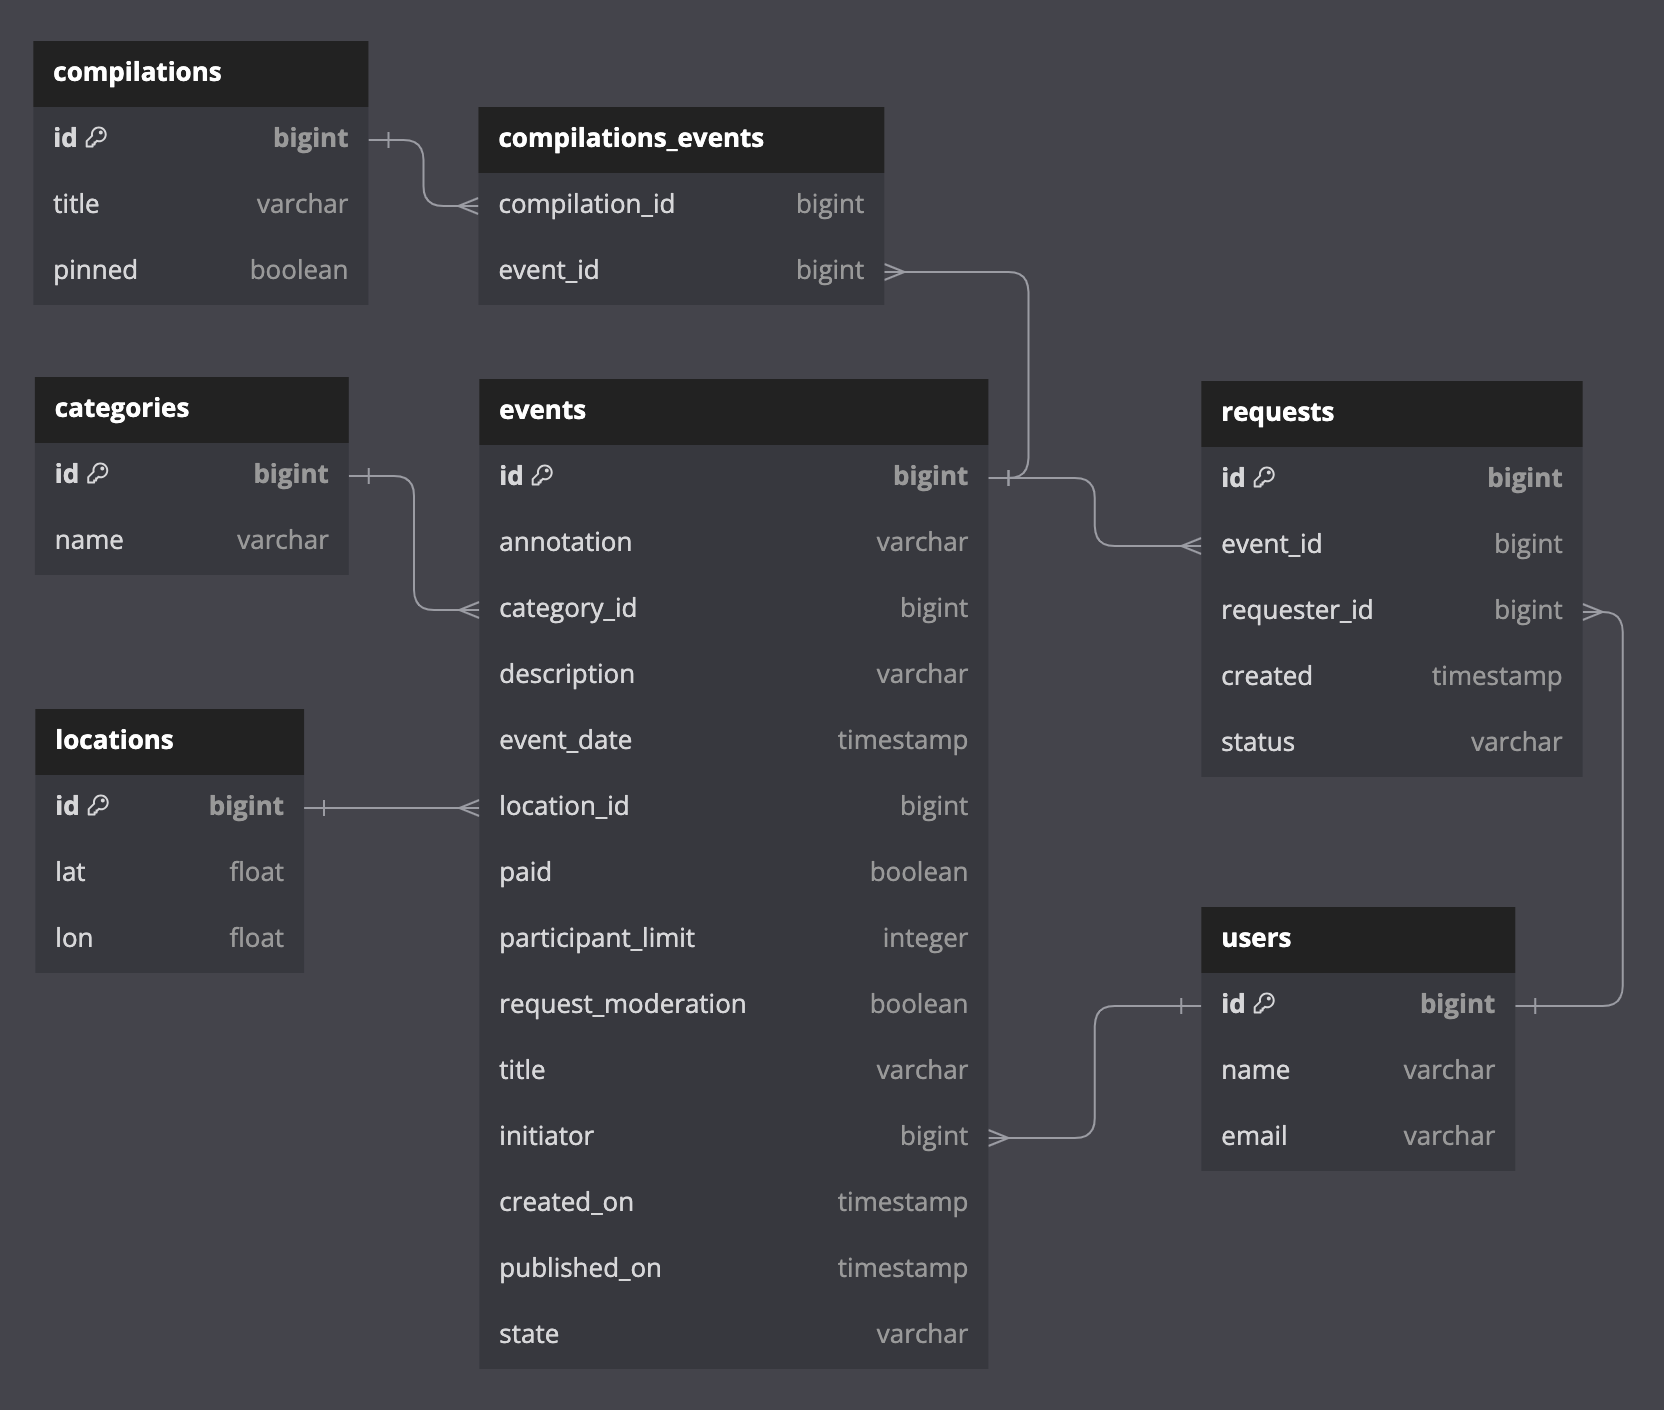
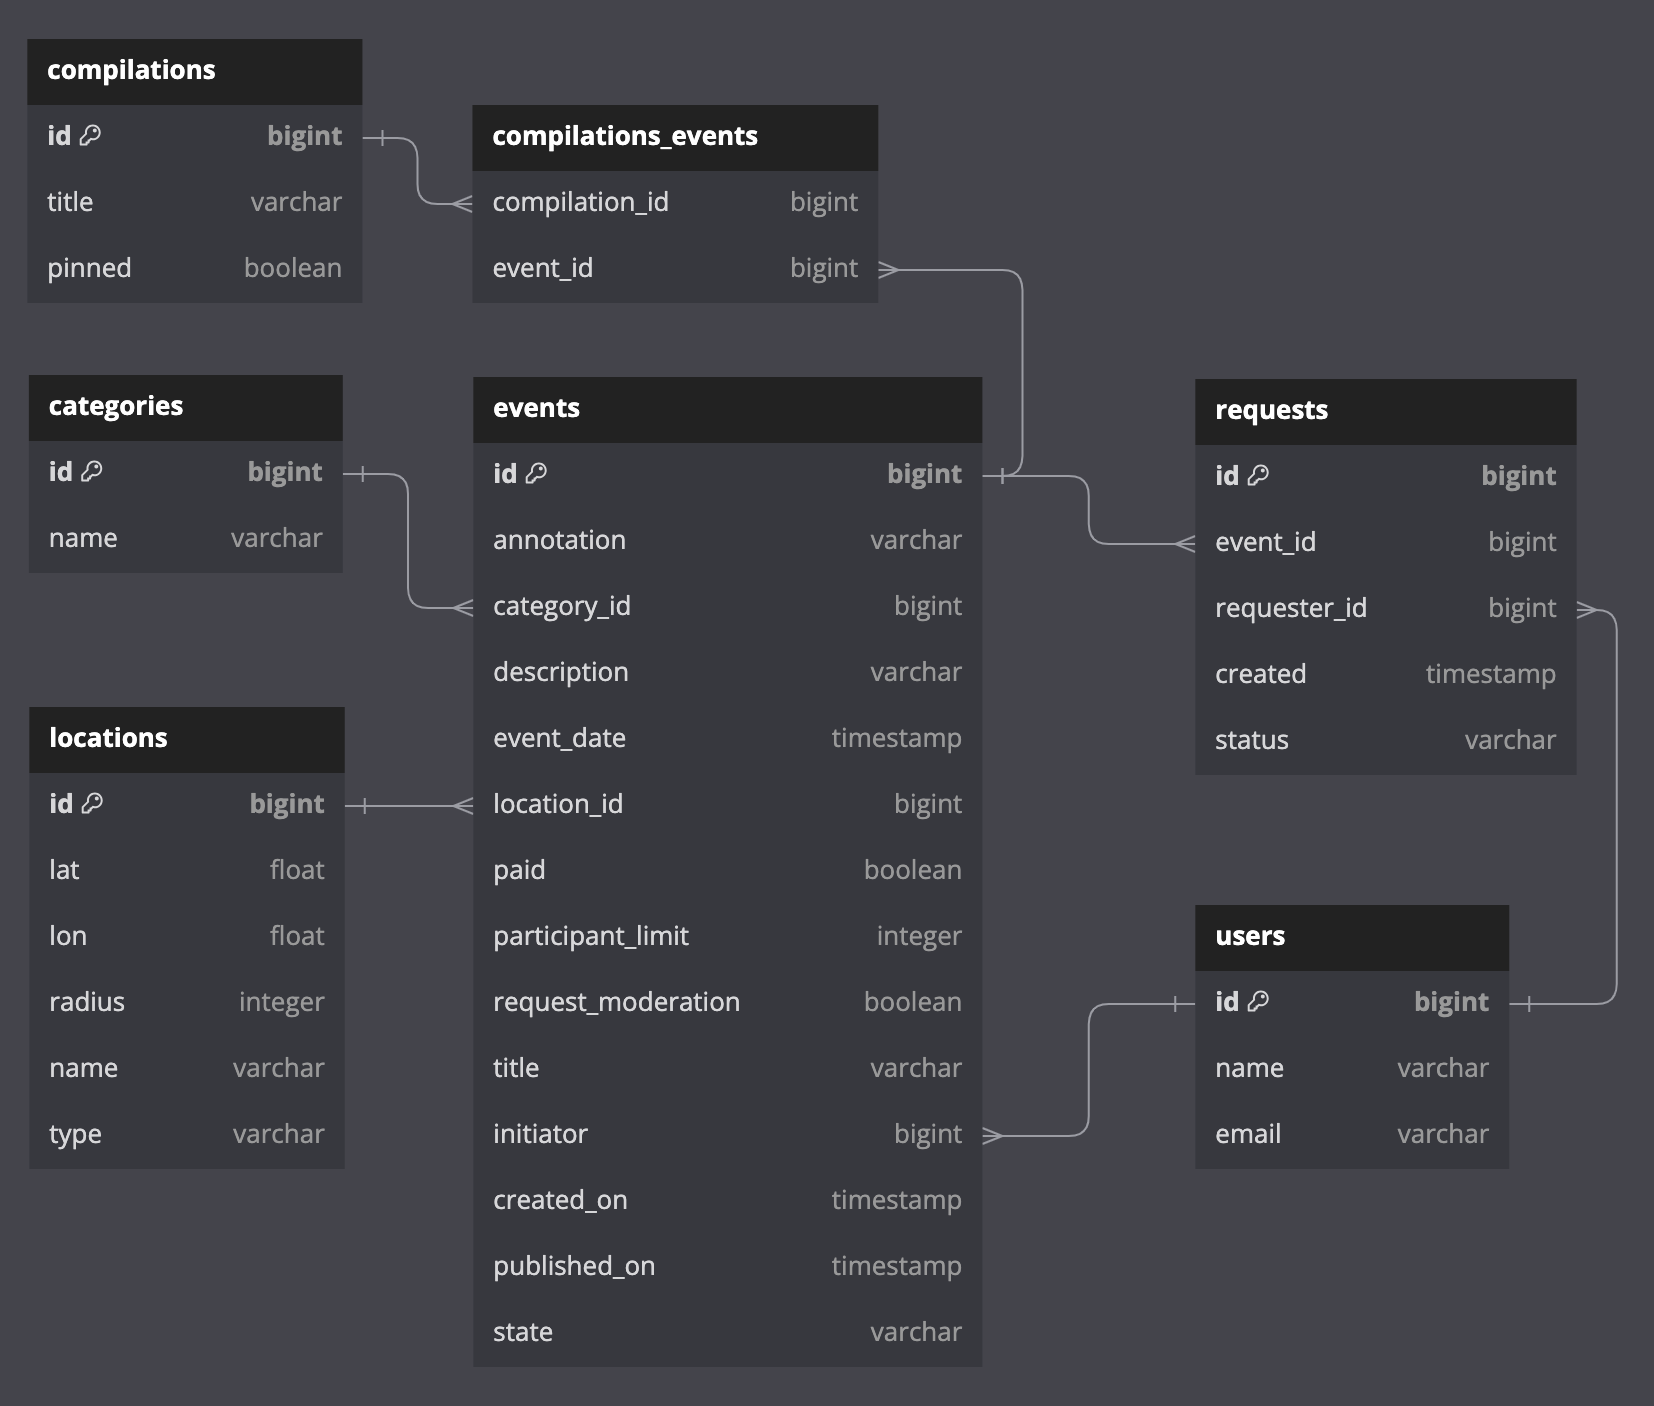
docs: обновлен README

diff --git a/ewm-service/src/main/java/ru/practicum/event/service/EventServiceImpl.java b/ewm-service/src/main/java/ru/practicum/event/service/EventServiceImpl.java
@@ -26,6 +26,8 @@ import ru.practicum.event.repository.EventRepository;
 import ru.practicum.location.dto.LocationDto;
 import ru.practicum.location.mapper.LocationMapper;
 import ru.practicum.location.model.Location;
+import ru.practicum.location.model.LocationCriteria;
+import ru.practicum.location.model.SearchArea;
 import ru.practicum.location.repository.LocationRepository;
 import ru.practicum.request.repository.RequestRepository;
 import ru.practicum.user.User;
@@ -43,6 +45,7 @@ import java.util.stream.Collectors;
 
 import static ru.practicum.event.enums.EventState.PUBLISHED;
 import static ru.practicum.util.DateTime.toInstant;
+import static ru.practicum.util.LocationSearch.makeSearchArea;
 import static ru.practicum.util.Statistics.getEventId;
 import static ru.practicum.util.Statistics.makeViewMap;
 import static ru.practicum.util.Validation.*;
@@ -69,12 +72,14 @@ public class EventServiceImpl implements EventService {
                                                       List<Long> categoryIds,
                                                       Instant start,
                                                       Instant end,
-                                                      Long locId,
+                                                      Float lat,
+                                                      Float lon,
+                                                      Integer radius,
                                                       int from,
                                                       int size) {
-        Location location = null;
-        if (locId != null) {
-            location = locationRepo.findById(locId);
+        List<Long> locationIds = null;
+        if (lat != null || lon != null || radius != null) {
+            locationIds = getLocationIdsInArea(lat, lon, radius);
         }
         Criteria criteria = Criteria.builder()
                 .users(users)
@@ -82,7 +87,7 @@ public class EventServiceImpl implements EventService {
                 .categories(categoryIds)
                 .start(start)
                 .end(end)
-                .location(location)
+                .locationIds(locationIds)
                 .from(from)
                 .size(size)
                 .build();
@@ -217,6 +222,16 @@ public class EventServiceImpl implements EventService {
         }
         event = repository.update(event);
         return makeFullResponseDto(event);
+    }
+
+    private List<Long> getLocationIdsInArea(Float lat, Float lon, Integer radius) {
+        SearchArea searchArea = makeSearchArea(lat, lon, radius);
+        LocationCriteria locationCriteria = LocationCriteria.builder()
+                .searchArea(searchArea)
+                .build();
+        return locationRepo.getByCriteria(locationCriteria).stream()
+                .map(Location::getId)
+                .collect(Collectors.toList());
     }
 
     private void setEventStateByPrivateAction(Event event, String stateAction) {

diff --git a/ewm-service/src/main/java/ru/practicum/event/controller/EventAdminController.java b/ewm-service/src/main/java/ru/practicum/event/controller/EventAdminController.java
@@ -39,7 +39,12 @@ public class EventAdminController {
                                      @RequestParam(required = false, name = "rangeEnd")
                                      @DateTimeFormat(pattern = "yyyy-MM-dd HH:mm:ss")
                                      LocalDateTime endLocal,
-                                     @RequestParam(required = false) Long locId,
+                                     @PositiveOrZero(message = "Широта не может быть отрицательной")
+                                     @RequestParam(required = false) Float lat,
+                                     @PositiveOrZero(message = "Долгота не может быть отрицательной")
+                                     @RequestParam(required = false) Float lon,
+                                     @PositiveOrZero(message = "Радиус поиска должен быть положительным")
+                                     @RequestParam(required = false) Integer radius,
                                      @PositiveOrZero(message = FROM_ERROR_MESSAGE)
                                      @RequestParam(defaultValue = "0") Integer from,
                                      @Positive(message = SIZE_ERROR_MESSAGE)
@@ -54,7 +59,7 @@ public class EventAdminController {
         if (start != null && end != null) {
             validateStartEndDates(start, end);
         }
-        return service.getAllByCriteriaByAdmin(users, states, categories, start, end, locId, from, size);
+        return service.getAllByCriteriaByAdmin(users, states, categories, start, end, lat, lon, radius, from, size);
     }
 
     @PatchMapping("/{eventId}")

diff --git a/ewm-service/src/main/java/ru/practicum/location/service/LocationServiceImpl.java b/ewm-service/src/main/java/ru/practicum/location/service/LocationServiceImpl.java
@@ -17,6 +17,7 @@ import ru.practicum.location.repository.LocationRepository;
 import java.util.Collections;
 import java.util.List;
 
+import static ru.practicum.util.LocationSearch.makeSearchArea;
 import static ru.practicum.util.Validation.validateStringField;
 
 @Service
@@ -101,20 +102,6 @@ public class LocationServiceImpl implements LocationService {
             validateStringField(name, "Название локации", 1, 50);
             location.setName(name);
         }
-    }
-
-    private SearchArea makeSearchArea(Float lat, Float lon, Integer radius) {
-        SearchArea searchArea = null;
-        if (lat != null && lon != null && radius != null) {
-            searchArea = SearchArea.builder()
-                    .lat(lat)
-                    .lon(lon)
-                    .radius(radius)
-                    .build();
-        } else if (lat != null || lon != null || radius != null) {
-            throw new IllegalArgumentException("Область поиска должна быть задана тремя параметрами: lat, lon, radius");
-        }
-        return searchArea;
     }
 
     private void reportLatLonUniqueConflict(RuntimeException e, Location location) {

diff --git a/ewm-service/src/main/java/ru/practicum/event/repository/impl/EventRepositoryImpl.java b/ewm-service/src/main/java/ru/practicum/event/repository/impl/EventRepositoryImpl.java
@@ -16,7 +16,6 @@ import ru.practicum.event.enums.EventState;
 import ru.practicum.event.model.Criteria;
 import ru.practicum.event.model.Event;
 import ru.practicum.event.repository.EventRepository;
-import ru.practicum.location.model.Location;
 
 import java.sql.ResultSet;
 import java.sql.SQLException;
@@ -80,12 +79,9 @@ public class EventRepositoryImpl implements EventRepository {
             parameters.addValue("states", criteria.getStates());
         }
 
-        if (criteria.getLocation() != null) {
-            Location location = criteria.getLocation();
-            conditions.add("distance(:lat, :lon, lat, lon) <= :radius");
-            parameters.addValue("lat", location.getLat());
-            parameters.addValue("lon", location.getLon());
-            parameters.addValue("radius", location.getRadius());
+        if (criteria.getLocationIds() != null) {
+            conditions.add("location_id in (:locationIds)");
+            parameters.addValue("locationIds", criteria.getLocationIds());
         }
 
         if (!conditions.isEmpty()) {

diff --git a/ewm-service/src/main/java/ru/practicum/util/LocationSearch.java b/ewm-service/src/main/java/ru/practicum/util/LocationSearch.java
@@ -1,0 +1,20 @@
+package ru.practicum.util;
+
+import ru.practicum.location.model.SearchArea;
+
+public class LocationSearch {
+
+    public static SearchArea makeSearchArea(Float lat, Float lon, Integer radius) {
+        SearchArea searchArea = null;
+        if (lat != null && lon != null && radius != null) {
+            searchArea = SearchArea.builder()
+                    .lat(lat)
+                    .lon(lon)
+                    .radius(radius)
+                    .build();
+        } else if (lat != null || lon != null || radius != null) {
+            throw new IllegalArgumentException("Область поиска должна быть задана тремя параметрами: lat, lon, radius");
+        }
+        return searchArea;
+    }
+}

diff --git a/ewm-service/src/main/java/ru/practicum/event/service/EventService.java b/ewm-service/src/main/java/ru/practicum/event/service/EventService.java
@@ -14,7 +14,10 @@ public interface EventService {
                                                List<Long> categories,
                                                Instant start,
                                                Instant end,
-                                               Long locId, int from,
+                                               Float lat,
+                                               Float lon,
+                                               Integer radius,
+                                               int from,
                                                int size);
 
     EventFullDto patchByAdmin(long eventId, UpdateEventDto updateEventDto);

diff --git a/ewm-service/src/main/java/ru/practicum/event/model/Criteria.java b/ewm-service/src/main/java/ru/practicum/event/model/Criteria.java
@@ -3,7 +3,6 @@ package ru.practicum.event.model;
 import lombok.Builder;
 import lombok.Data;
 import ru.practicum.event.enums.EventSort;
-import ru.practicum.location.model.Location;
 
 import java.time.Instant;
 import java.util.List;
@@ -20,7 +19,7 @@ public class Criteria {
     private Instant start;
     private Instant end;
     private EventSort sort;
-    private Location location;
+    private List<Long> locationIds;
     private int from;
     private int size;
 

diff --git a/README.md b/README.md
@@ -1,6 +1,41 @@
 # java-explore-with-me
-## Этап 2.
-### _Основной сервис_
+
+## _Основной сервис_
+
+### Дополнительная функциональность
+#### _ЗАДАЧА_
+- Возможность для администратора добавлять конкретные локации: города, театры, концертные залы и другие в виде координат (широта, долгота, радиус). 
+- Получение списка этих локаций. 
+- Возможность поиска событий в конкретной локации.
+#### _ЛОГИКА_
+> Добавление локаций
+* При добавлении локации администратором:
+  - Администратор указывает координаты локации, 
+  - Есть возможность исправить локацию
+  - Есть возможность удалить локацию
+* Работа пользователей с локациями
+  - При добавлении события пользователь указывает координаты события, и по условию задачи (основная часть должна остаться неизменной --> тесты postman проверяют в первозданном виде).
+  --> при создании события --> поиск ближайшей локации с минимальным радиусом, в область которой попадает событие.
+    - Если локация найдена — id присваивается событию. 
+    - Если локация не найдена — создается новая пользовательская локация со значениями по умолчанию.
+  - Дальнейшая работа с пользовательскими локациями:
+    - Администратор может исправить локацию, добавив радиус, имя, тип
+    - Популярные скопления пользовательских локаций можно заменять на одну администраторскую с радиусом (с заменой id локации в событии).
+    - Раз в определенное время можно очищать базу от архивных событий вместе с их локациями
+
+> Получение списка локаций
+
+Администратор может искать локации с фильтрами: 
+- Область поиска (задается координатами центра и радиусом поиска)
+- Тип локации 
+  * INDOOR / OUTDOOR — для создания подборок, например
+  * USERS_POINT — для просмотра пользовательских локаций
+- from / size — для постраничного вывода.
+
+> Поиск событий в конкретной локации
+
+Поиск осуществляется по трем параметрам: координаты центра и радиус области.
+
 ### ER-диаграмма
 <img alt = "ER-диаграма основного сервиса" src = "ewm-service/src/main/resources/static/er-diagram-ewm.png">
 [Ссылка на диаграмму](stats-server/stats-service/src/main/resources/static/er-diagram-stats.png)
@@ -48,7 +83,14 @@
 * первичный ключ id — идентификатор записи;
 * lat — широта
 * lon — долгота
-* 
+* radius — радиус (расстояние от центра, область покрытия локации). По умолчанию 0
+* name — название локации
+* type — тип локации: USERS_POINT
+  - USERS_POINT --> значение по умолчанию, для пользовательских локаций
+  - INDOOR --> любые помещения / здания, удобно для создания подборок «что делать в дождь»
+  - OUTDOOR --> парки и другие локации под открытым небом, удобно для создания подборок «на открытом воздухе»
+
+
 #### requests
 Содержит данные о заявках на участие в событиях.
 
@@ -76,8 +118,7 @@
 * event_id — id события
 
 
-## Этап 1. 
-### _Сервис статистики_
+## _Сервис статистики_
 ### ER-диаграмма
 
 <img alt = "ER-диаграмма" src = "stats-server/stats-service/src/main/resources/static/er-diagram-stats.png">
